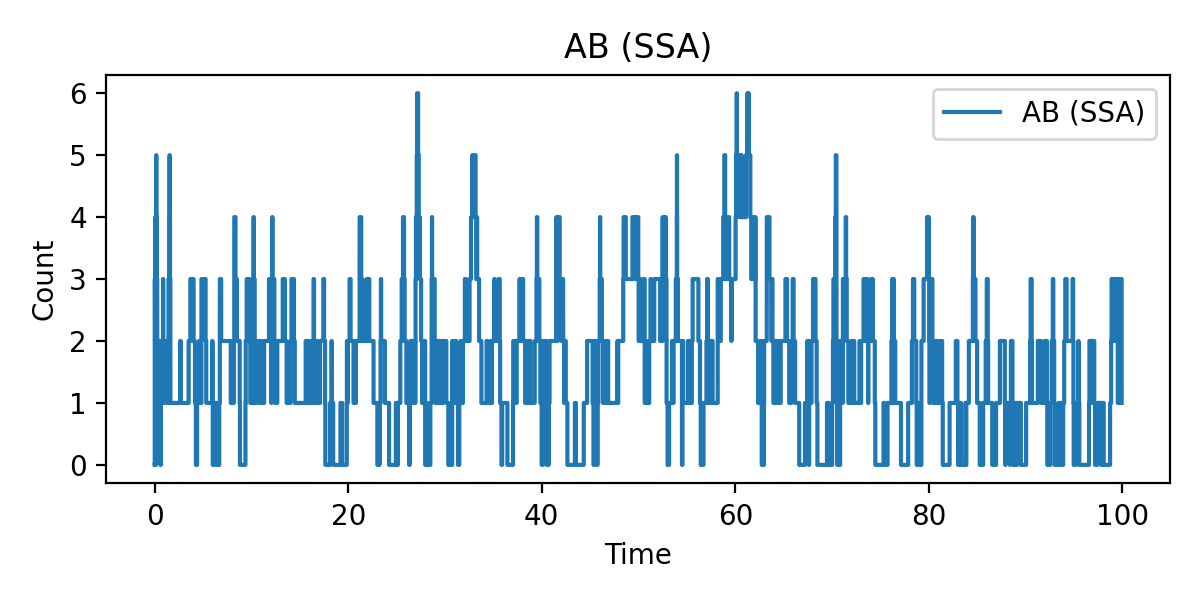
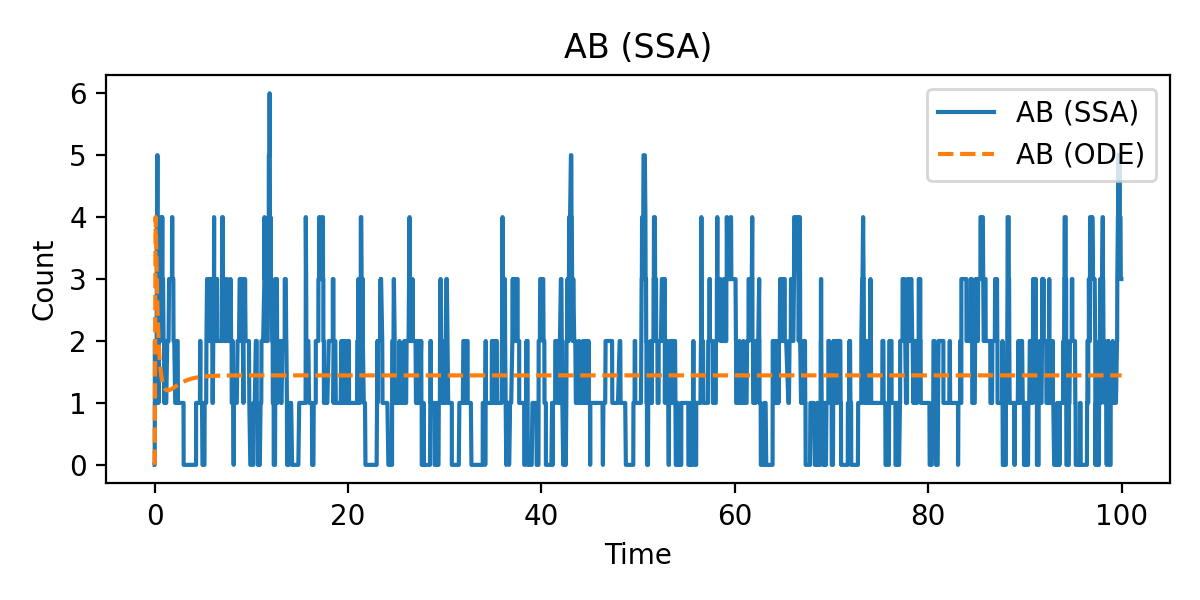
Verifying 4-square assembly. New visualization.

diff --git a/SSAs/four_species/four_square/four_square.py b/SSAs/four_species/four_square/four_square.py
@@ -12,7 +12,7 @@ A — B
 C - D
 
 We add the case where clusters can start to form. So we now have in total
-13 species: {A,B,C,D,AB,AC,BD,CD,ABD,BDC,DCA,CAB,ABCD}.
+13 species: {A,B,C,D,AB,AC,BD,CD,ABD,BCD,ACD,ABC,ABCD}.
 
 We work in the case where only pairs can form. We consider 8 species:
 {A, B, C, D, AB, AC, BD, CD}. This gives us 4 reversible reactions,
@@ -33,18 +33,18 @@ monomer + dimer <-> trimer:
 10. ABD -> AB + D
 11. A + BD -> ABD
 12. ABD -> A + BD
-13. BD + C -> BDC
-14. BDC -> BD + C
-15. B + CD -> BDC
-16. BDC -> B + CD
-17. DC + A -> DCA
-18. DCA -> DC + A
-19. AC + D -> DCA
-20. DCA -> AC + D
-21. CA + B -> CAB
-22. CAB -> CA + B
-23. AB + C -> CAB
-24. CAB -> AB + C
+13. BD + C -> BCD
+14. BCD -> BD + C
+15. B + CD -> BCD
+16. BCD -> B + CD
+17. DC + A -> ACD
+18. ACD -> DC + A
+19. AC + D -> ACD
+20. ACD -> AC + D
+21. CA + B -> ABC
+22. ABC -> CA + B
+23. AB + C -> ABC
+24. ABC -> AB + C
 
 dimer + dimer <-> tetramer:
 25. AB + CD -> ABCD
@@ -55,12 +55,12 @@ dimer + dimer <-> tetramer:
 trimer + monomer <-> tetramer:
 29. ABD + C -> ABCD
 30. ABCD -> ABD + C
-31. BDC + A -> ABCD
-32. ABCD -> BDC + A
-33. DCA + B -> ABCD
-34. ABCD -> DCA + B
-35. CAB + D -> ABCD
-36. ABCD -> CAB + D
+31. BCD + A -> ABCD
+32. ABCD -> BCD + A
+33. ACD + B -> ABCD
+34. ABCD -> ACD + B
+35. ABC + D -> ABCD
+36. ABCD -> ABC + D
 """
 import numpy as np
 import random
@@ -71,7 +71,7 @@ from collections import OrderedDict
 species = [
     "A", "B", "C", "D",        # monomers
     "AB", "AC", "BD", "CD",    # dimers
-    "ABD", "BDC", "DCA", "CAB",# trimers
+    "ABD", "BCD", "ACD", "ABC",# trimers
     "ABCD"                     # tetramer
 ]
 n_species = len(species)
@@ -86,20 +86,20 @@ rates = {
 
     "k9":  0.05, "k10": 0.25,  # AB + D <-> ABD
     "k11": 0.04, "k12": 0.22,  # A + BD <-> ABD
-    "k13": 0.05, "k14": 0.07,  # BD + C <-> BDC
-    "k15": 0.12, "k16": 0.32,  # B + CD <-> BDC
-    "k17": 0.05, "k18": 0.25,  # CD + A <-> DCA
-    "k19": 0.04, "k20": 0.22,  # AC + D <-> DCA
-    "k21": 0.05, "k22": 0.07,  # AC + B <-> CAB
-    "k23": 0.12, "k24": 0.32,  # AB + C <-> CAB
+    "k13": 0.05, "k14": 0.07,  # BD + C <-> BCD
+    "k15": 0.12, "k16": 0.32,  # B + CD <-> BCD
+    "k17": 0.05, "k18": 0.25,  # CD + A <-> ACD
+    "k19": 0.04, "k20": 0.22,  # AC + D <-> ACD
+    "k21": 0.05, "k22": 0.07,  # AC + B <-> ABC
+    "k23": 0.12, "k24": 0.32,  # AB + C <-> ABC
 
     "k25": 0.95, "k26": 0.05,  # AB + CD <-> ABCD
     "k27": 0.94, "k28": 0.02,  # AC + BD <-> ABCD
 
     "k29": 0.85, "k30": 0.05,  # ABD + C <-> ABCD
-    "k31": 0.84, "k32": 0.02,  # BDC + A <-> ABCD
-    "k33": 0.85, "k34": 0.07,  # DCA + B <-> ABCD
-    "k35": 0.82, "k36": 0.12   # CAB + D <-> ABCD
+    "k31": 0.84, "k32": 0.02,  # BCD + A <-> ABCD
+    "k33": 0.85, "k34": 0.07,  # ACD + B <-> ABCD
+    "k35": 0.82, "k36": 0.12   # ABC + D <-> ABCD
 }
 
 # ---------------------------
@@ -128,23 +128,23 @@ reactions = [
     {"reactants": {"A":1, "BD":1}, "products": {"ABD":1}, "k": "k11"},
     {"reactants": {"ABD":1},       "products": {"A":1, "BD":1}, "k": "k12"},
 
-    {"reactants": {"BD":1, "C":1}, "products": {"BDC":1}, "k": "k13"},
-    {"reactants": {"BDC":1},       "products": {"BD":1, "C":1}, "k": "k14"},
+    {"reactants": {"BD":1, "C":1}, "products": {"BCD":1}, "k": "k13"},
+    {"reactants": {"BCD":1},       "products": {"BD":1, "C":1}, "k": "k14"},
 
-    {"reactants": {"B":1, "CD":1}, "products": {"BDC":1}, "k": "k15"},
-    {"reactants": {"BDC":1},       "products": {"B":1, "CD":1}, "k": "k16"},
+    {"reactants": {"B":1, "CD":1}, "products": {"BCD":1}, "k": "k15"},
+    {"reactants": {"BCD":1},       "products": {"B":1, "CD":1}, "k": "k16"},
 
-    {"reactants": {"CD":1, "A":1}, "products": {"DCA":1}, "k": "k17"},
-    {"reactants": {"DCA":1},       "products": {"CD":1, "A":1}, "k": "k18"},
+    {"reactants": {"CD":1, "A":1}, "products": {"ACD":1}, "k": "k17"},
+    {"reactants": {"ACD":1},       "products": {"CD":1, "A":1}, "k": "k18"},
 
-    {"reactants": {"AC":1, "D":1}, "products": {"DCA":1}, "k": "k19"},
-    {"reactants": {"DCA":1},       "products": {"AC":1, "D":1}, "k": "k20"},
+    {"reactants": {"AC":1, "D":1}, "products": {"ACD":1}, "k": "k19"},
+    {"reactants": {"ACD":1},       "products": {"AC":1, "D":1}, "k": "k20"},
 
-    {"reactants": {"AC":1, "B":1}, "products": {"CAB":1}, "k": "k21"},
-    {"reactants": {"CAB":1},       "products": {"AC":1, "B":1}, "k": "k22"},
+    {"reactants": {"AC":1, "B":1}, "products": {"ABC":1}, "k": "k21"},
+    {"reactants": {"ABC":1},       "products": {"AC":1, "B":1}, "k": "k22"},
 
-    {"reactants": {"AB":1, "C":1}, "products": {"CAB":1}, "k": "k23"},
-    {"reactants": {"CAB":1},       "products": {"AB":1, "C":1}, "k": "k24"},
+    {"reactants": {"AB":1, "C":1}, "products": {"ABC":1}, "k": "k23"},
+    {"reactants": {"ABC":1},       "products": {"AB":1, "C":1}, "k": "k24"},
 
     # dimer + dimer <-> tetramer
     {"reactants": {"AB":1, "CD":1}, "products": {"ABCD":1}, "k": "k25"},
@@ -157,14 +157,14 @@ reactions = [
     {"reactants": {"ABD":1, "C":1}, "products": {"ABCD":1}, "k": "k29"},
     {"reactants": {"ABCD":1},       "products": {"ABD":1, "C":1}, "k": "k30"},
 
-    {"reactants": {"BDC":1, "A":1}, "products": {"ABCD":1}, "k": "k31"},
-    {"reactants": {"ABCD":1},       "products": {"BDC":1, "A":1}, "k": "k32"},
+    {"reactants": {"BCD":1, "A":1}, "products": {"ABCD":1}, "k": "k31"},
+    {"reactants": {"ABCD":1},       "products": {"BCD":1, "A":1}, "k": "k32"},
 
-    {"reactants": {"DCA":1, "B":1}, "products": {"ABCD":1}, "k": "k33"},
-    {"reactants": {"ABCD":1},       "products": {"DCA":1, "B":1}, "k": "k34"},
+    {"reactants": {"ACD":1, "B":1}, "products": {"ABCD":1}, "k": "k33"},
+    {"reactants": {"ABCD":1},       "products": {"ACD":1, "B":1}, "k": "k34"},
 
-    {"reactants": {"CAB":1, "D":1}, "products": {"ABCD":1}, "k": "k35"},
-    {"reactants": {"ABCD":1},       "products": {"CAB":1, "D":1}, "k": "k36"},
+    {"reactants": {"ABC":1, "D":1}, "products": {"ABCD":1}, "k": "k35"},
+    {"reactants": {"ABCD":1},       "products": {"ABC":1, "D":1}, "k": "k36"},
 ]
 
 n_reactions = len(reactions)
@@ -267,6 +267,59 @@ def gillespie_ssa(initial_counts, t_max, reactions, reactant_lists, stoich_chang
 
     return np.array(times), history
 
+def odes(t,y):
+    """
+    Return odes for the system.
+
+    :param t: time
+    :param y: state vector
+    :return: odes
+    """
+    A, B, C, D, AB, AC, BD, CD, ABC, ABD, ACD, BCD, ABCD = y
+    km = rates
+
+    dA = (km["k2"]*AB + km["k4"]*AC + km["k12"]*ABD + km["k18"]*ACD + km["k32"]*ABCD
+            - (km["k1"]*B + km["k3"]*C + km["k11"]*BD + km["k17"]*CD + km["k31"]*BCD)*A)
+
+    dB = (km["k2"]*AB + km["k6"]*BD + km["k16"]*BCD + km["k22"]*ABC + km["k34"]*ABCD
+            - (km["k1"]*A + km["k5"]*D + km["k15"]*CD + km["k21"]*AC + km["k33"]*ACD)*B)
+
+    dC = (km["k4"]*AC + km["k8"]*CD + km["k14"]*BCD + km["k24"]*ABC + km["k30"]*ABCD
+            - (km["k3"]*A + km["k7"]*D + km["k13"]*BD + km["k23"]*AB + km["k29"]*ABD)*C)
+
+    dD = (km["k6"]*BD + km["k8"]*CD + km["k10"]*ABD + km["k20"]*ACD + km["k36"]*ABCD
+            - (km["k5"]*B + km["k7"]*C + km["k9"]*AB + km["k19"]*AC + km["k35"]*ABC)*D)
+
+    dAB = (km["k1"]*A*B + km["k10"]*ABD + km["k24"]*ABC + km["k26"]*ABCD
+            - (km["k2"] + km["k9"]*D + km["k23"]*C + km["k25"]*CD)*AB)
+
+    dAC = (km["k3"]*A*C + km["k20"]*ACD + km["k22"]*ABC + km["k28"]*ABCD
+            - (km["k4"] + km["k19"]*D + km["k21"]*B + km["k27"]*BD)*AC)
+
+    dBD = (km["k5"]*B*D + km["k12"]*ABD + km["k14"]*BCD + km["k28"]*ABCD
+            - (km["k6"] + km["k11"]*A + km["k13"]*C + km["k27"]*AC)*BD)
+
+    dCD = (km["k7"]*C*D + km["k16"]*BCD + km["k18"]*ACD + km["k26"]*ABCD
+            - (km["k8"] + km["k15"]*B + km["k17"]*A + km["k25"]*AB)*CD)
+
+    dABC = (km["k21"]*B*AC + km["k23"]*C*AB + km["k36"]*ABCD
+                - (km["k22"] + km["k24"] + km["k35"]*D)*ABC)
+
+    dABD = (km["k9"]*D*AB + km["k11"]*A*BD + km["k30"]*ABCD
+                - (km["k10"] + km["k12"] + km["k29"]*C)*ABD)
+
+    dACD = (km["k17"]*A*CD + km["k19"]*D*AC + km["k34"]*ABCD
+                - (km["k18"] + km["k20"] + km["k33"]*B)*ACD)
+
+    dBCD = (km["k13"]*C*BD + km["k15"]*B*CD + km["k32"]*ABCD
+                - (km["k14"] + km["k16"] + km["k31"]*A)*BCD)
+
+    dABCD = (km["k25"]*AB*CD + km["k27"]*AC*BD + km["k29"]*C*ABD + km["k31"]*A*BCD
+                + km["k33"]*B*ACD + km["k35"]*D*ABC
+                - (km["k26"] + km["k28"] + km["k30"] + km["k32"] + km["k34"] + km["k36"])*ABCD)
+
+    return [dA, dB, dC, dD, dAB, dAC, dBD, dCD, dABC, dABD, dACD, dBCD, dABCD]
+
 if __name__ == "__main__":
     # initial counts: set these as you like
     initial_counts = np.zeros(n_species, dtype=int)
@@ -281,18 +334,87 @@ if __name__ == "__main__":
     times, history = gillespie_ssa(initial_counts, duration, reactions,
                                    reactant_lists, stoich_changes, rates)
 
-    for s in species:
+    
+    # Solve deterministic ODEs for comparison
+    y0 = initial_counts.astype(float)
+    
+    t_span = (0, duration) 
+    t_eval = np.linspace(*t_span, 1000) 
+
+    sol = solve_ivp(odes, t_span, y0, t_eval=t_eval, method='LSODA')
+
+    # Plotting results
+    for i,s in enumerate(species):
         plt.figure(figsize=(6,3))
-        plt.step(times, history[s], where="post", label=f"{s} (SSA)")
+        plt.plot(times, history[s], label=f"{s} (SSA)")
+        plt.plot(sol.t, sol.y[i], '--', label=f"{s} (ODE)")
         plt.xlabel("Time")
         plt.ylabel("Count")
         plt.title(f"{s} (SSA)")
         plt.legend()
         plt.tight_layout()
-        plt.savefig(f"full_square_{s}.png", dpi=200)
+        #plt.savefig(f"full_square_{s}.png", dpi=200)
         plt.close()
 
     print("SSA finished.")
+
+    #### THIS PART NEEDS TO BE CHECKED ####
+
+    snapshot_times = [0, 30, 60, 90]   # choose whatever times you want
+
+    # categorize species by size
+    monomers = [s for s in species if len(s) == 1]
+    dimers   = [s for s in species if len(s) == 2]
+    trimers  = [s for s in species if len(s) == 3]
+    tetramers= [s for s in species if len(s) == 4]
+
+    groups = {
+        "Monomers": monomers,
+        "Dimers": dimers,
+        "Trimers": trimers,
+        "Tetramers": tetramers,
+    }
+
+    # helper to get snapshot index
+    def nearest_index(array, value):
+        return np.argmin(np.abs(array - value))
+
+    for t_snap in snapshot_times:
+        idx_snap = nearest_index(times, t_snap)
+        state = {s: history[s][idx_snap] for s in species}
+        total = sum(state.values())
+        
+        # compute proportions per subspecies
+        proportions = {g: np.array([state[s] / total for s in subspecies])
+                    for g, subspecies in groups.items()}
+        
+        # plot
+        fig, ax = plt.subplots(figsize=(8, 5))
+        bottom = np.zeros(len(groups))
+
+        # consistent color set for species
+        cmap = plt.get_cmap("tab20")
+        color_map = {s: cmap(i % 20) for i, s in enumerate(species)}
+
+        for s in species:
+            # find which group this species belongs to
+            for j, (gname, subspecies) in enumerate(groups.items()):
+                if s in subspecies:
+                    frac = state[s] / total
+                    ax.bar(gname, frac, bottom=bottom[j], color=color_map[s], label=s if bottom[j] == 0 else "")
+                    bottom[j] += frac
+
+        ax.set_ylabel("Proportion")
+        ax.set_title(f"Species Proportions at t = {t_snap:.1f}")
+        
+        # avoid duplicate entries in legend
+        handles, labels = ax.get_legend_handles_labels()
+        unique = dict(zip(labels, handles))
+        ax.legend(unique.values(), unique.keys(), bbox_to_anchor=(1.05, 1), loc="upper left")
+        
+        plt.tight_layout()
+        plt.savefig(f"snapshot_proportions_t{t_snap}.png", dpi=200)
+        plt.close()
 
 
 

diff --git a/SSAs/two_species/two_species.py b/SSAs/two_species/two_species.py
@@ -118,14 +118,21 @@ def plot_species(species, k_1, k_2, array_species, deterministic, array_t):
     plt.figure()  # Start a new figure
 
     plt.plot(array_t, array_species, label="SSA")
-    plt.plot(array_t, deterministic, label="ODE", linewidth =1)
+    plt.plot(array_t, deterministic, label="ODE", linewidth =3)
 
     # Labels
-    plt.title(f"Species {species} with kon = {k_1}, koff = {k_2}")
-    plt.xlabel("Time (s)")
-    plt.ylabel("Number of Species")
-    plt.legend()
-    plt.savefig(f"two_species_{species}.png")
+    plt.ylim(4980, 5010)
+    plt.title(f"Species {species} with kon = {k_1}, koff = {k_2}", fontsize=18)
+    plt.xlabel("Time (s)", fontsize=16)
+    plt.ylabel("Number of Species", fontsize=16)
+
+    plt.xticks(fontsize=14)
+    plt.yticks(fontsize=14)
+
+    plt.legend(fontsize=14)
+    plt.tight_layout()
+    plt.savefig(f"two_species_{species}.png", dpi=200)
+
 
 if __name__ == "__main__":
     # Starting parameters
@@ -173,9 +180,9 @@ if __name__ == "__main__":
     
     # Plot results
     deterministic_A, deterministic_B, deterministic_AB = deterministic_arrays(array_A[0], array_B[0], array_AB[0], k_1, k_2, array_t)
-    plot_all_results(k_1, k_2, array_A, array_B, array_AB, deterministic_A, deterministic_B, deterministic_AB, array_t)
-    plot_species("A", k_1, k_2, array_A, deterministic_A, array_t)
-    plot_species("B", k_1, k_2, array_B, deterministic_B, array_t)
+    #plot_all_results(k_1, k_2, array_A, array_B, array_AB, deterministic_A, deterministic_B, deterministic_AB, array_t)
+    #plot_species("A", k_1, k_2, array_A, deterministic_A, array_t)
+    #plot_species("B", k_1, k_2, array_B, deterministic_B, array_t)
     plot_species("AB", k_1, k_2, array_AB, deterministic_AB, array_t)
 
 
